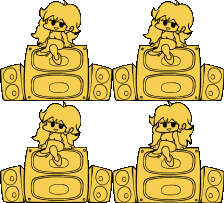
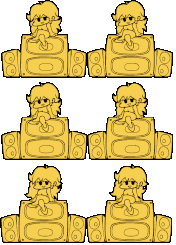
resize menu gf

diff --git a/src/character/menugf.c b/src/character/menugf.c
@@ -41,28 +41,32 @@ typedef struct
 
 //MenuGF character definitions
 static const CharFrame char_menugf_frame[] = {
-	{MenuGF_ArcMain_MenuGF0, {  0,   0, 113, 101}, { 37,  72}}, //0 bop left 1
-	{MenuGF_ArcMain_MenuGF0, {112,   0, 113, 101}, { 37,  72}}, //1 bop left 2
-	{MenuGF_ArcMain_MenuGF0, {  0, 101, 113, 102}, { 37,  72}}, //2 bop left 3
-	{MenuGF_ArcMain_MenuGF0, {112, 102, 112, 102}, { 37,  72}}, //3 bop left 4
+	{MenuGF_ArcMain_MenuGF0, {  1,   0,  86,  78}, { 37,  72}}, //0 bop left 1
+	{MenuGF_ArcMain_MenuGF0, { 87,   0,  86,  78}, { 37,  72}}, //1 bop left 2
+	{MenuGF_ArcMain_MenuGF0, {  1,  82,  86,  78}, { 37,  72}}, //2 bop left 3
+	{MenuGF_ArcMain_MenuGF0, { 87,  82,  86,  78}, { 37,  72}}, //3 bop left 4
+	{MenuGF_ArcMain_MenuGF0, {  0, 164,  86,  79}, { 37,  73}}, //4 bop left 5
+	{MenuGF_ArcMain_MenuGF0, { 86, 164,  86,  79}, { 37,  73}}, //5 bop left 6
 	
-	{MenuGF_ArcMain_MenuGF1, {  0,   0, 112, 101}, { 37,  72}}, //4 bop right 1
-	{MenuGF_ArcMain_MenuGF1, {112,   0, 112, 101}, { 37,  72}}, //5 bop right 2
-	{MenuGF_ArcMain_MenuGF1, {  0, 101, 112, 102}, { 37,  72}}, //6 bop right 3
-	{MenuGF_ArcMain_MenuGF1, {112, 104, 112, 102}, { 37,  72}}, //7 bop right 4
+	{MenuGF_ArcMain_MenuGF1, {  3,   1,  85,  77}, { 36,  71}}, //6 bop right 1
+	{MenuGF_ArcMain_MenuGF1, { 88,   1,  86,  77}, { 37,  71}}, //7 bop right 2
+	{MenuGF_ArcMain_MenuGF1, {  2,  80,  86,  77}, { 37,  71}}, //8 bop right 3
+	{MenuGF_ArcMain_MenuGF1, { 88,  80,  86,  77}, { 37,  71}}, //9 bop right 4
+	{MenuGF_ArcMain_MenuGF1, {  2, 159,  86,  79}, { 37,  73}}, //10 bop right 5
+	{MenuGF_ArcMain_MenuGF1, { 88, 160,  86,  78}, { 37,  72}}, //11 bop right 6
 	
 };
 
 static const Animation char_menugf_anim[CharAnim_Max] = {
 	{0, (const u8[]){ASCR_CHGANI, CharAnim_LeftAlt}},                        //CharAnim_Idle
 	{0, (const u8[]){ASCR_CHGANI, CharAnim_LeftAlt}},                                   //CharAnim_Left
-	{1, (const u8[]){ 0,  0,  1,  1,  2,  2,  3, ASCR_BACK, 1}}, //CharAnim_LeftAlt
+	{1, (const u8[]){ 0,  0,  1,  1,  2,  2,  3,  3,  4,  4,  5, ASCR_BACK, 1}}, //CharAnim_LeftAlt
 	{0, (const u8[]){ASCR_CHGANI, CharAnim_LeftAlt}},                                    //CharAnim_Down
 	{0, (const u8[]){ASCR_CHGANI, CharAnim_LeftAlt}},                          //CharAnim_DownAlt
 	{0, (const u8[]){ASCR_CHGANI, CharAnim_LeftAlt}},                                     //CharAnim_Up
 	{0, (const u8[]){ASCR_CHGANI, CharAnim_LeftAlt}},                                     //CharAnim_UpAlt
 	{0, (const u8[]){ASCR_CHGANI, CharAnim_LeftAlt}},                                     //CharAnim_Right
-	{1, (const u8[]){ 4,  4,  5,  5,  6,  6,  3,  ASCR_BACK, 1}}, //CharAnim_RightAlt
+	{1, (const u8[]){6,  6,  7,  7,  8,  8,  9,  9, 10, 10, 11,  ASCR_BACK, 1}}, //CharAnim_RightAlt
 };
 
 //MenuGF character functions

diff --git a/src/character/xmasbf.c b/src/character/xmasbf.c
@@ -98,14 +98,14 @@ static const CharFrame char_xmasbf_frame[] = {
 	{XmasBF_ArcMain_XmasBF4, {  0,   0,  93, 108}, { 52, 101}}, //20 left miss 1
 	{XmasBF_ArcMain_XmasBF4, { 94,   0,  93, 108}, { 52, 101}}, //21 left miss 2
 	
-	{XmasBF_ArcMain_XmasBF4, {  0, 109,  95,  98}, { 50,  90}}, //22 down miss 1
-	{XmasBF_ArcMain_XmasBF4, { 96, 109,  95,  97}, { 50,  89}}, //23 down miss 2
+	{XmasBF_ArcMain_XmasBF4, {  0, 110,  96, 100}, { 50,  90}}, //22 down miss 1
+	{XmasBF_ArcMain_XmasBF4, { 97, 110,  97,  99}, { 50,  89}}, //23 down miss 2
 	
 	{XmasBF_ArcMain_XmasBF5, {  0,   0,  90, 107}, { 44,  99}}, //24 up miss 1
 	{XmasBF_ArcMain_XmasBF5, { 91,   0,  89, 108}, { 44, 100}}, //25 up miss 2
 	
-	{XmasBF_ArcMain_XmasBF5, {  0, 108,  99, 108}, { 42, 101}}, //26 right miss 1
-	{XmasBF_ArcMain_XmasBF5, {100, 109, 101, 108}, { 43, 101}}, //27 right miss 2
+	{XmasBF_ArcMain_XmasBF5, {  0, 108, 100, 109}, { 42, 101}}, //26 right miss 1
+	{XmasBF_ArcMain_XmasBF5, {101, 110, 101, 109}, { 43, 101}}, //27 right miss 2
 
 	{XmasBF_ArcMain_Dead0, {  0,   0, 128, 128}, { 53,  98}}, //23 dead0 0
 	{XmasBF_ArcMain_Dead0, {128,   0, 128, 128}, { 53,  98}}, //24 dead0 1

diff --git a/src/menu/menu.c b/src/menu/menu.c
@@ -377,7 +377,7 @@ void Menu_Load2(MenuPage page)
 	menu.gf = Char_GF_New(FIXED_DEC(62,1), FIXED_DEC(-12,1));
 	menu.bf = Char_BF_New(FIXED_DEC(0,1), FIXED_DEC( 37,1));
 	menu.opponent = Char_MenuO_New(FIXED_DEC(-90,1), FIXED_DEC(114,1));
-	menu.menugf = Char_MenuGF_New(FIXED_DEC(90,1), FIXED_DEC(-15,1));
+	menu.menugf = Char_MenuGF_New(FIXED_DEC(90,1), FIXED_DEC(15,1));
 	stage.camera.x = stage.camera.y = FIXED_DEC(0,1);
 	stage.camera.bzoom = FIXED_UNIT;
 	stage.gf_speed = 4;
@@ -905,7 +905,7 @@ void Menu_Tick(void)
 			menu.font_arial.draw_col(&menu.font_arial,
 				menu_options[menu.select].name,
 				SCREEN_WIDTH - 8,
-				6,
+				16,
 				FontAlign_Right,
 				86,
 				80,
@@ -937,7 +937,7 @@ void Menu_Tick(void)
 			menu.menugf->tick(menu.menugf);
 			
 			//Draw upper strip
-			RECT name_bar = {0, 16, SCREEN_WIDTH, 128};
+			RECT name_bar = {0, 16+18, SCREEN_WIDTH, 110};
 			Gfx_DrawRect(&name_bar, 249, 207, 81);
 			
 			//Draw options

diff --git a/src/boot/stage.c b/src/boot/stage.c
@@ -29,6 +29,8 @@
 
 u32 Stage_Sounds[4];
 
+//random color cuz yes
+u8 bot_randomr,bot_randomg,bot_randomb;
 
 //notes initialization
 void Note_Init(void)
@@ -1836,10 +1838,19 @@ void Stage_Tick(void)
 			{
 			RECT bot_fill = {172, 227, 67, 16};
 			RECT_FIXED bot_dst = {FIXED_DEC(-33,1), FIXED_DEC(-60,1), FIXED_DEC(67,1), FIXED_DEC(16,1)};
-				
+             
+			 //select a random color
+			if (stage.flag & STAGE_FLAG_JUST_STEP && ((stage.song_step & 0xF) == 0))
+			{
+			bot_randomr = RandomRange(0,255);
+			bot_randomg = RandomRange(0,255);
+			bot_randomb = RandomRange(0,255);
+			}
+
 			bot_dst.w = bot_fill.w << FIXED_SHIFT;
+			
 			if (animf_count & 20)
-			Stage_DrawTex(&stage.tex_huds, &bot_fill, &bot_dst, stage.bump);
+			Stage_DrawTexCol(&stage.tex_huds, &bot_fill, &bot_dst, stage.bump,bot_randomr,bot_randomg,bot_randomb);
 			}
 
 			//health system for normal and swap mode
